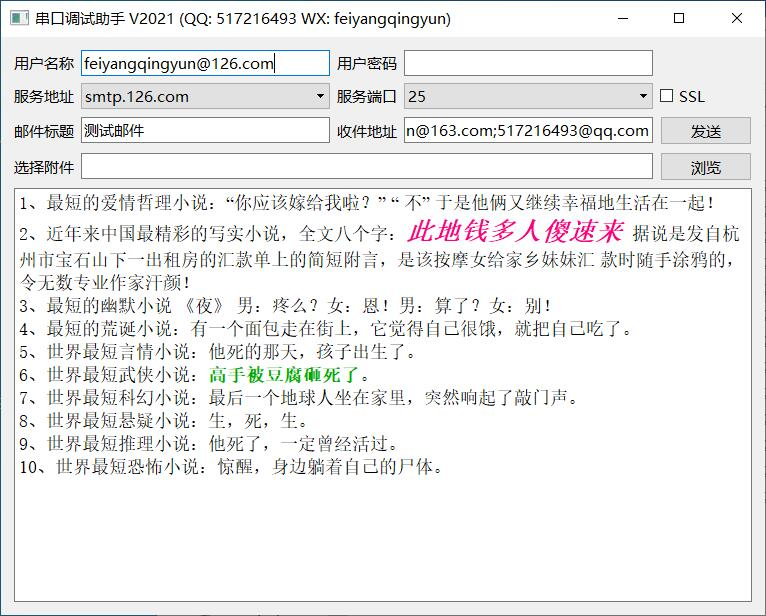
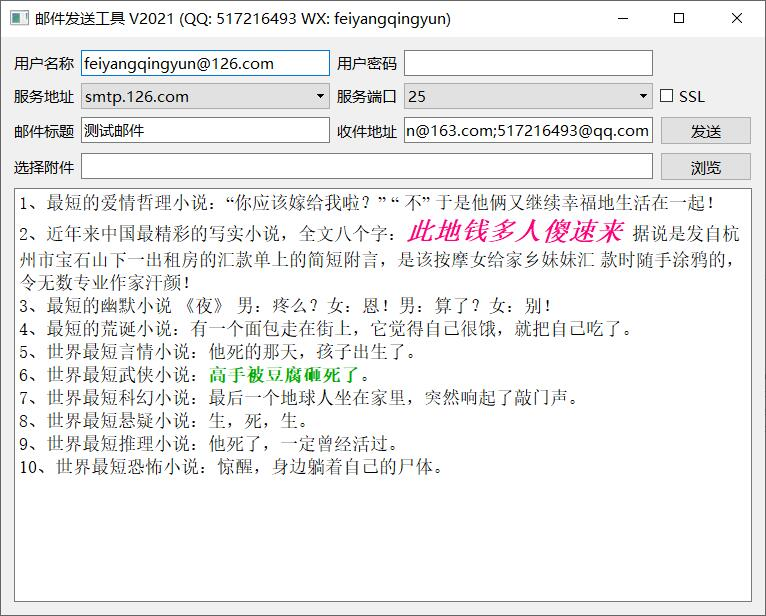
更新代码

Changed region(s): [[0.03, 0.0, 0.1802, 0.0617], [0.0, 0.987, 0.2102, 1.0], [0.9909, 0.0, 1.0, 0.0308]]

diff --git a/ui/core_qss/qss/psblack.css b/ui/core_qss/qss/psblack.css
@@ -459,29 +459,28 @@ background:#444444;
 
 QTableView::item:selected,QListView::item:selected,QTreeView::item:selected{
 color:#DCDCDC;
-background:qlineargradient(spread:pad,x1:0,y1:0,x2:0,y2:1,stop:0 #484848,stop:1 #383838);
+background:#383838;
 }
 
-QTableView::item:hover,QListView::item:hover,QTreeView::item:hover,QHeaderView{
+QTableView::item:hover,QListView::item:hover,QTreeView::item:hover,QHeaderView,QHeaderView::section,QTableCornerButton:section{
 color:#DCDCDC;
-background:qlineargradient(spread:pad,x1:0,y1:0,x2:0,y2:1,stop:0 #646464,stop:1 #525252);
+background:#525252;
 }
 
 QTableView::item,QListView::item,QTreeView::item{
 padding:1px;
 margin:0px;
+border:0px;
 }
 
 QHeaderView::section,QTableCornerButton:section{
 padding:3px;
 margin:0px;
-color:#DCDCDC;
 border:1px solid #242424;
 border-left-width:0px;
 border-right-width:1px;
 border-top-width:0px;
 border-bottom-width:1px;
-background:qlineargradient(spread:pad,x1:0,y1:0,x2:0,y2:1,stop:0 #646464,stop:1 #525252);
 }
 
 QTabBar::tab{

diff --git a/ui/styledemo/qrc/qss/flatwhite.css b/ui/styledemo/qrc/qss/flatwhite.css
@@ -459,12 +459,12 @@ background:#FFFFFF;
 
 QTableView::item:selected,QListView::item:selected,QTreeView::item:selected{
 color:#57595B;
-background:qlineargradient(spread:pad,x1:0,y1:0,x2:0,y2:1,stop:0 #E4E4E4,stop:1 #E4E4E4);
+background:#E4E4E4;
 }
 
-QTableView::item:hover,QListView::item:hover,QTreeView::item:hover,QHeaderView{
+QTableView::item:hover,QListView::item:hover,QTreeView::item:hover,QHeaderView,QHeaderView::section,QTableCornerButton:section{
 color:#57595B;
-background:qlineargradient(spread:pad,x1:0,y1:0,x2:0,y2:1,stop:0 #F6F6F6,stop:1 #F6F6F6);
+background:#F6F6F6;
 }
 
 QTableView::item,QListView::item,QTreeView::item{
@@ -476,13 +476,11 @@ border:0px;
 QHeaderView::section,QTableCornerButton:section{
 padding:3px;
 margin:0px;
-color:#57595B;
 border:1px solid #B6B6B6;
 border-left-width:0px;
 border-right-width:1px;
 border-top-width:0px;
 border-bottom-width:1px;
-background:qlineargradient(spread:pad,x1:0,y1:0,x2:0,y2:1,stop:0 #F6F6F6,stop:1 #F6F6F6);
 }
 
 QTabBar::tab{

diff --git a/ui/styledemo/qrc/qss/lightblue.css b/ui/styledemo/qrc/qss/lightblue.css
@@ -459,12 +459,12 @@ background:#EAF7FF;
 
 QTableView::item:selected,QListView::item:selected,QTreeView::item:selected{
 color:#386487;
-background:qlineargradient(spread:pad,x1:0,y1:0,x2:0,y2:1,stop:0 #DEF0FE,stop:1 #C0DEF6);
+background:#C0DEF6;
 }
 
-QTableView::item:hover,QListView::item:hover,QTreeView::item:hover,QHeaderView{
+QTableView::item:hover,QListView::item:hover,QTreeView::item:hover,QHeaderView,QHeaderView::section,QTableCornerButton:section{
 color:#386487;
-background:qlineargradient(spread:pad,x1:0,y1:0,x2:0,y2:1,stop:0 #F2F9FF,stop:1 #DAEFFF);
+background:#DAEFFF;
 }
 
 QTableView::item,QListView::item,QTreeView::item{
@@ -476,13 +476,11 @@ border:0px;
 QHeaderView::section,QTableCornerButton:section{
 padding:3px;
 margin:0px;
-color:#386487;
 border:1px solid #C0DCF2;
 border-left-width:0px;
 border-right-width:1px;
 border-top-width:0px;
 border-bottom-width:1px;
-background:qlineargradient(spread:pad,x1:0,y1:0,x2:0,y2:1,stop:0 #F2F9FF,stop:1 #DAEFFF);
 }
 
 QTabBar::tab{

diff --git a/ui/styledemo/qrc/qss/psblack.css b/ui/styledemo/qrc/qss/psblack.css
@@ -459,12 +459,12 @@ background:#444444;
 
 QTableView::item:selected,QListView::item:selected,QTreeView::item:selected{
 color:#DCDCDC;
-background:qlineargradient(spread:pad,x1:0,y1:0,x2:0,y2:1,stop:0 #484848,stop:1 #383838);
+background:#383838;
 }
 
-QTableView::item:hover,QListView::item:hover,QTreeView::item:hover,QHeaderView{
+QTableView::item:hover,QListView::item:hover,QTreeView::item:hover,QHeaderView,QHeaderView::section,QTableCornerButton:section{
 color:#DCDCDC;
-background:qlineargradient(spread:pad,x1:0,y1:0,x2:0,y2:1,stop:0 #646464,stop:1 #525252);
+background:#525252;
 }
 
 QTableView::item,QListView::item,QTreeView::item{
@@ -476,13 +476,11 @@ border:0px;
 QHeaderView::section,QTableCornerButton:section{
 padding:3px;
 margin:0px;
-color:#DCDCDC;
 border:1px solid #242424;
 border-left-width:0px;
 border-right-width:1px;
 border-top-width:0px;
 border-bottom-width:1px;
-background:qlineargradient(spread:pad,x1:0,y1:0,x2:0,y2:1,stop:0 #646464,stop:1 #525252);
 }
 
 QTabBar::tab{

diff --git a/tool/base64helper/frmbase64helper.cpp b/tool/base64helper/frmbase64helper.cpp
@@ -54,7 +54,7 @@ void frmBase64Helper::on_btnImageToBase64_clicked()
     double elapsed = (double)time.elapsed();
 #endif
     QString strTime = QString::number(elapsed, 'f', 3);
-    qDebug() << QString("用时 %1 毫秒").arg(strTime);
+    ui->labInfo->setText(QString("图片转base64 用时 %1 毫秒").arg(strTime));
 }
 
 void frmBase64Helper::on_btnBase64ToImage_clicked()
@@ -77,7 +77,7 @@ void frmBase64Helper::on_btnBase64ToImage_clicked()
     double elapsed = (double)time.elapsed();
 #endif
     QString strTime = QString::number(elapsed, 'f', 3);
-    qDebug() << QString("用时 %1 毫秒").arg(strTime);
+    ui->labInfo->setText(QString("base64转图片 用时 %1 毫秒").arg(strTime));
 }
 
 void frmBase64Helper::on_btnTextToBase64_clicked()

diff --git a/tool/emailtool/main.cpp b/tool/emailtool/main.cpp
@@ -24,7 +24,7 @@ int main(int argc, char *argv[])
 #endif
 
     frmEmailTool w;
-    w.setWindowTitle("串口调试助手 V2021 (QQ: 517216493 WX: feiyangqingyun)");
+    w.setWindowTitle("邮件发送工具 V2021 (QQ: 517216493 WX: feiyangqingyun)");
     w.show();
 
     return a.exec();

diff --git a/README.md b/README.md
@@ -1,4 +1,4 @@
-#### 一、特别说明
+#### 一、特别说明
 1. 可以选择打开QWidgetDemo.pro一次性编译所有的，也可以到目录下打开pro编译。
 2. 如果发现有些子项目没有加载请打开对应目录下的.pro仔细看里面的注释。
 3. 编译好的可执行文件在源码同级目录下的bin目录。
